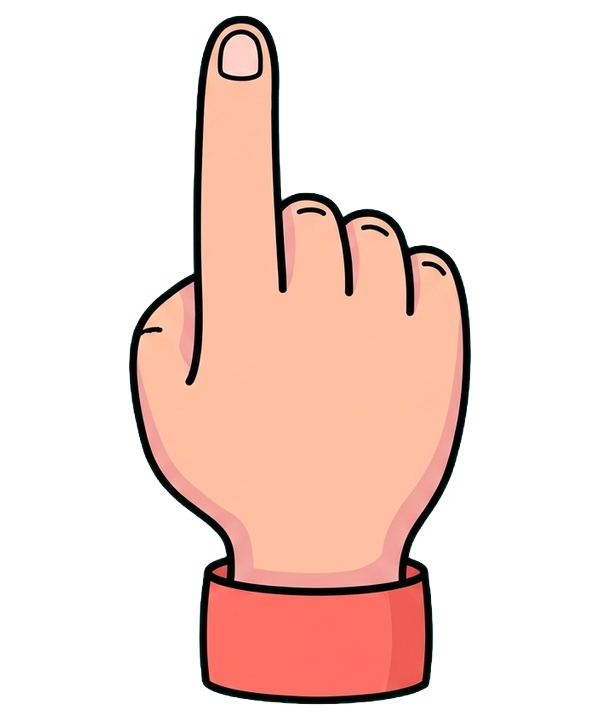
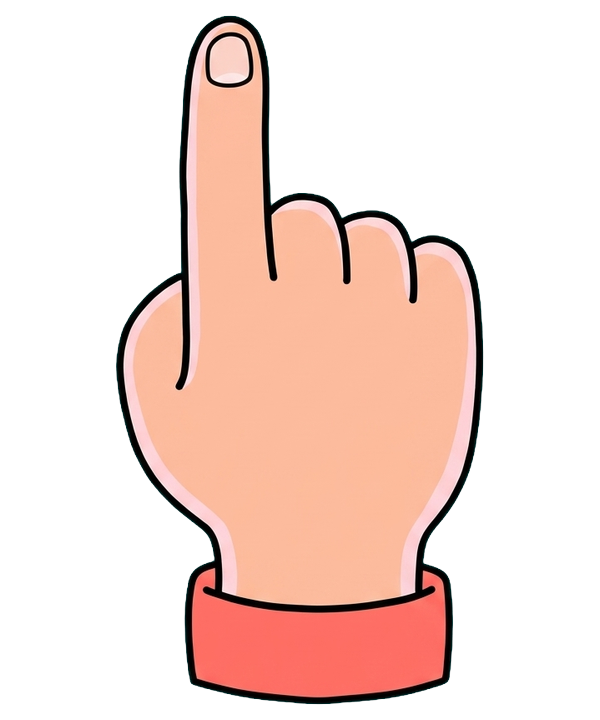
Tuto : main du guide n°4 choisie par Clément (Higgsfield f3cc370d)
Claude-Session: https://claude.ai/code/session_01QntoMQV7ktGRtjdgw19tPa

Changed region(s): [[0.18, 0.0, 0.81, 0.9778]]

diff --git a/src/game/ui/guideTuto.ts b/src/game/ui/guideTuto.ts
@@ -10,13 +10,13 @@ import { MAIN_TUTO } from '../scenes/ChargementScene';
 
 /**
  * La main qui montre, dessinée sur Higgsfield dans le style des élèves (`public/tuto/main.png`, job
- * 8b1dee3f, vue de dos, fond cyan détouré), peau du Grand,
+ * f3cc370d, vue de dos, fond cyan détouré), peau du Grand,
  * manchette rouge). Le bout de l'index est en (0, 0) ; la main est un peu penchée.
  */
 export function creerMain(scene: Phaser.Scene): Phaser.GameObjects.Container {
   const image = scene.add.image(0, 0, MAIN_TUTO);
   // Bout de l'index dans le dessin (600 × 720), ramené à 180 px de haut à l'écran.
-  image.setOrigin(241 / 600, 26 / 720).setScale(180 / 720);
+  image.setOrigin(229 / 600, 26 / 720).setScale(180 / 720);
   return scene.add.container(0, 0, [image]).setRotation(-0.28);
 }
 

diff --git a/docs/decisions.md b/docs/decisions.md
@@ -594,7 +594,7 @@ Demande de Clément : « Je commence à avoir un doute avec le design de mes ali
 Demande de Clément : « Attaque le tuto », public visé 13 ans et plus. Piste 4 de l'audit du 28/11 : trois mini-leçons jouées pour de vrai, chacune finie sur une petite victoire, puis la première partie contre l'ordi facile.
 
 - **DJ.1 — Trois leçons sur la cour du premier jour**, contre l'ordi, le joueur en Écoliers rouges (en bas) face aux Vers. Chaque leçon part d'une cour toute prête (`src/game/tuto.ts`) et se gagne en 1 à 5 coups : 1. « Fonce à la cabane » (poser, faire son chemin, appeler +2 copains quand la main est vide, entrer dans la cabane) ; 2. « Plaque ! » (le Grand 7 plaque la Fouine 4 qui barre le toboggan, puis même le Populaire 1 entre dans la cabane) ; 3. « Le goûter » (2 goûters déjà ramassés, il manque un îlot autour de la sucette ; le surveillant la garde, puis s'en va et le goûter tombe : 3/3, gagné). Les équipements sont coupés (pas de banc planque) et aucun élève à pouvoir n'est posé : pas de vidéo pendant le tuto. Pouvoirs, Petit et îlots spéciaux viennent en jouant (conseils existants).
-- **DJ.2 — Le guide** : une bulle de papier en haut de l'écran (onglet « Leçon n/3 · titre »), une main dessinée au trait des élèves (`public/tuto/main.png`, générée sur Higgsfield avec le Grand en référence, job 8b1dee3f, 6 cr : vue de dos (ongle visible, demandé par Clément après une 1re version côté paume), index levé, poing, manchette rouge ; deux versions dessinées en code refusées par Clément) qui fait le geste en boucle (glisser la bonne carte jusqu'à l'îlot, ou toucher « +2 copains ») et des ronds jaunes qui respirent autour des îlots à regarder. La main s'efface dès qu'on prend une carte. Le texte suit l'état de la partie, pas un script figé : un joueur qui pose ailleurs est quand même guidé jusqu'au bout.
+- **DJ.2 — Le guide** : une bulle de papier en haut de l'écran (onglet « Leçon n/3 · titre »), une main dessinée au trait des élèves (`public/tuto/main.png`, générée sur Higgsfield avec le Grand en référence, job f3cc370d, 6 cr : vue de dos (ongle visible, demandé par Clément après une 1re version côté paume), index levé, poing, manchette rouge ; deux versions dessinées en code refusées par Clément) qui fait le geste en boucle (glisser la bonne carte jusqu'à l'îlot, ou toucher « +2 copains ») et des ronds jaunes qui respirent autour des îlots à regarder. La main s'efface dès qu'on prend une carte. Le texte suit l'état de la partie, pas un script figé : un joueur qui pose ailleurs est quand même guidé jusqu'au bout.
 - **DJ.3 — Poses permises** : dans les leçons 2 et 3, seule la pose qui fait la leçon est permise (les autres îlots ne s'allument pas, la carte trop faible reste grisée). Dans la leçon 1, tout ce que la règle permet. L'ordi ne fait qu'appeler des copains, il ne gêne jamais.
 - **DJ.4 — Entrée** : la toute première fois qu'on touche « Jouer contre l'ordi », le tuto démarre ; on peut le passer (« Passer le tuto » sur chaque carte de leçon et sous la bulle). Il est aussi rejouable à tout moment par « Apprendre à jouer », à côté de « Réglages » à l'accueil. Fini ou passé, il n'est plus proposé (préférence `cour-des-grands.tuto-a-faire`). Le tuto n'est jamais gardé comme partie à reprendre.
 - **DJ.5 — Fin de leçon** : la transition de victoire habituelle (tampon « CABANE PRISE ! » ou « GOÛTERS DÉVALISÉS ! »), sans la vidéo de victoire, puis une carte « Leçon réussie ! » avec une étoile par leçon et ce qu'il faut retenir. Après la 3e : « Tu sais jouer ! », un mot sur les pouvoirs, et « Ma première partie » (choix de la carte et de la bande, ordi facile).
